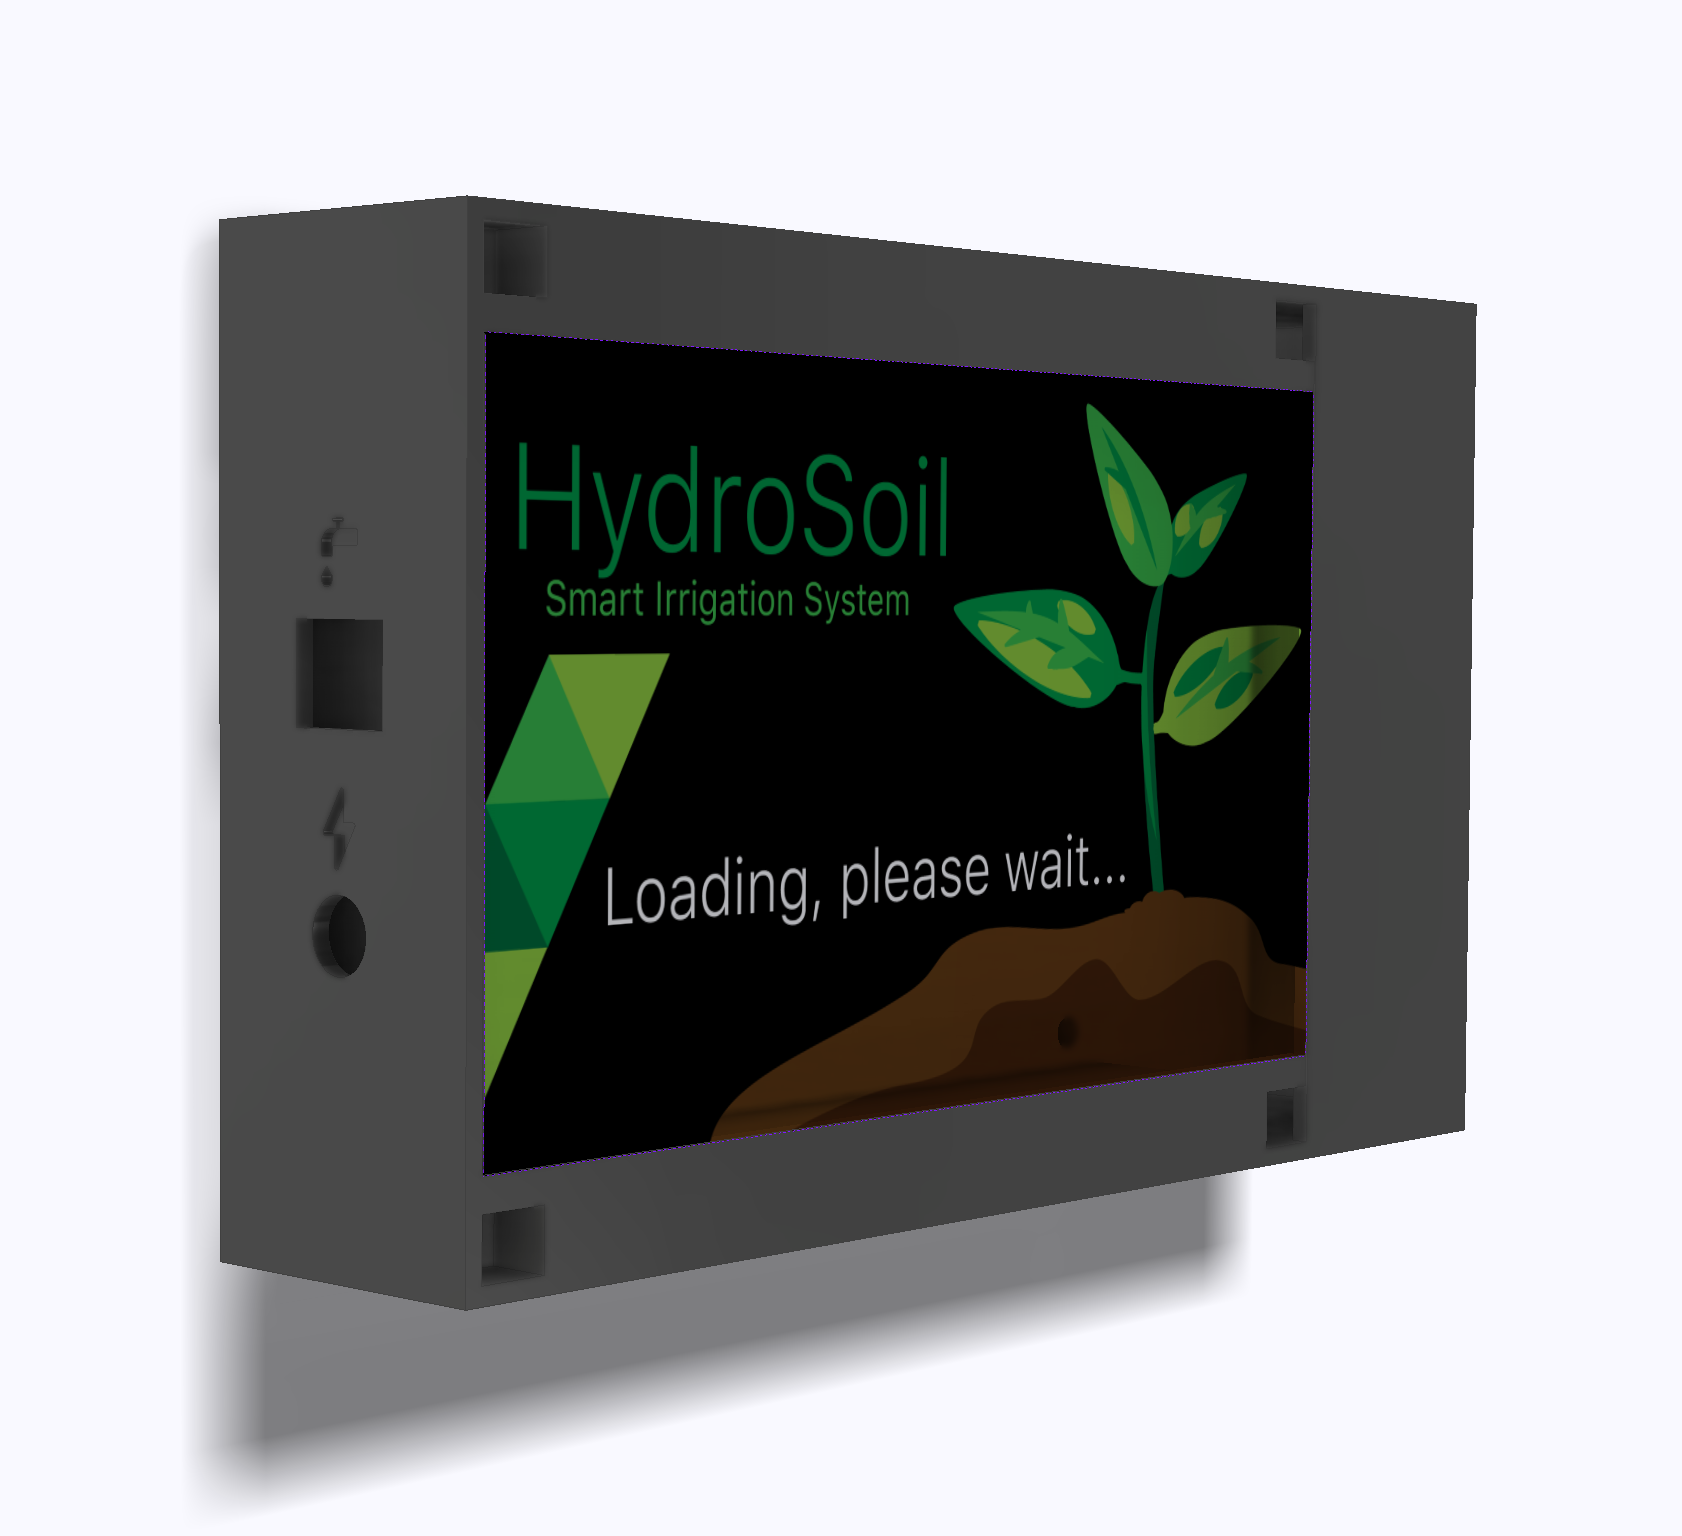
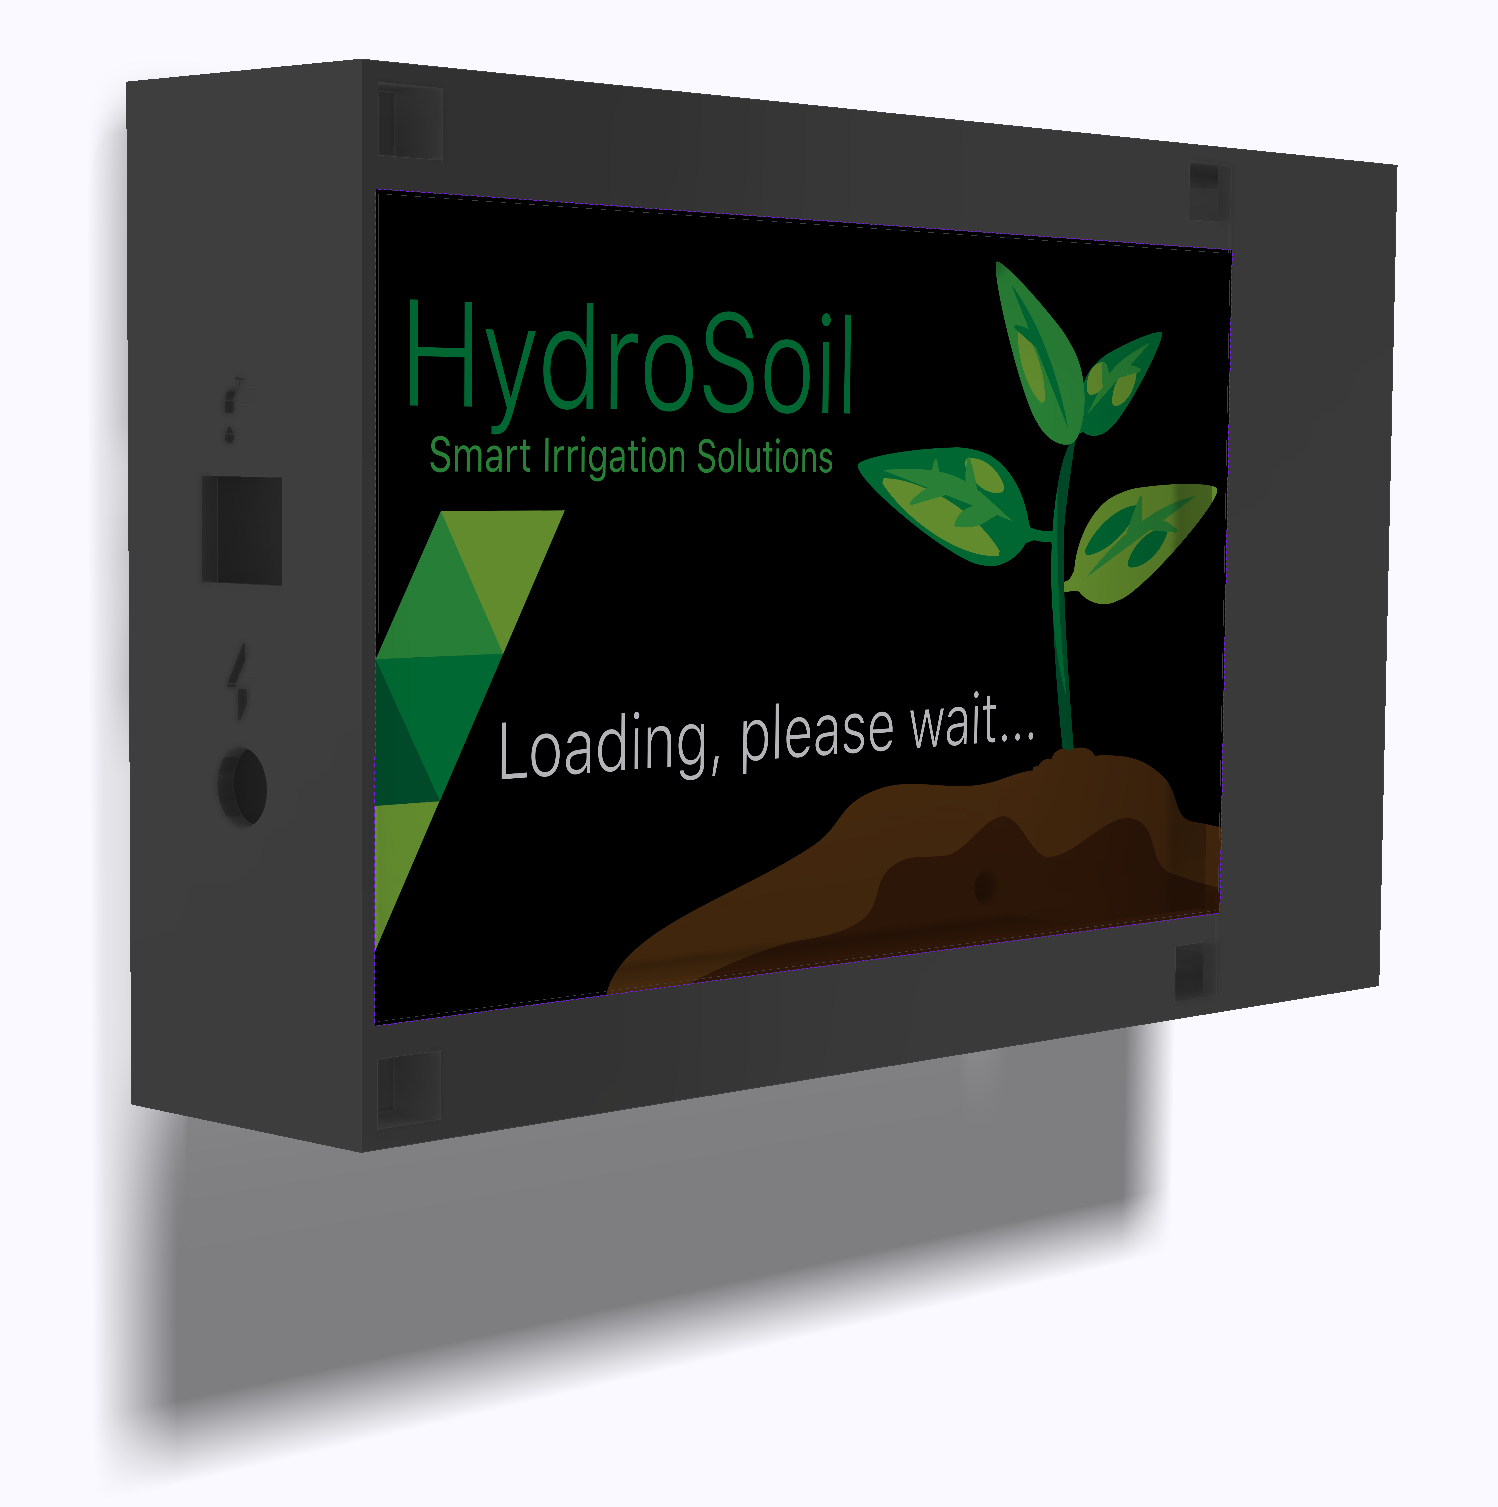
Website Updates
Added new content to website

diff --git a/docs/index.html b/docs/index.html
@@ -40,15 +40,10 @@
 				      <nav id="nav-menu-container">
 				        <ul class="nav-menu">
 				          <li class="menu-active"><a href="#home">Home</a></li>
-				          <li><a href="#about">About</a></li>
-				          <li><a href="#unique">Products</a></li>
-				          <li><a href="#faq">Faq</a></li>
-				          <li class="menu-has-children"><a href="">Pages</a>
-				            <ul>
-				              <li><a href="generic.html">About HydroSoil</a></li>
-				              <li><a href="elements.html">Elements</a></li>
-				            </ul>
-				          </li>
+				          <li><a href="#about">Who we are</a></li>
+						  <li><a href="#faq">Faq</a></li>
+						  <li><a href="generic.html">About</a></li>
+						  <li><a href="elements.html">Products</a></li>
 				        </ul>
 				      </nav><!-- #nav-menu-container -->		    		
 			    	</div>
@@ -56,25 +51,23 @@
 			  </header><!-- #header -->
 
 
-			<!-- start banner Area -->
+			<!-- Start Top Banner Area -->
 			<section class="banner-area" id="home">	
 				<div class="container">
 					<div class="row fullscreen d-flex align-items-center justify-content-center">
 						<div class="banner-content col-lg-12">
-							<h1>
-								HydroSoil 				
-							</h1>
+							<h1>HydroSoil</h1>
 							<br>
 							<h5 class="text-white text-uppercase">Smart Irrigation Solutions</h5>
 							<br>
-							<a href="#" class="primary-btn text-uppercase">Buy Now</a>
+							<a href="#shop" class="primary-btn text-uppercase">Shop Now</a>
 						</div>											
 					</div>
 				</div>
 			</section>
-			<!-- End banner Area -->	
+			<!-- End Top Banner Area -->	
 
-			<!-- Start video-sec Area -->
+			<!-- Start Short Description Area -->
 			<section class="video-sec-area section-gap" id="about">
 				<div class="container">
 					<div class="row justify-content-center align-items-center ">
@@ -92,9 +85,9 @@
 					</div>
 				</div>	
 			</section>
-			<!-- End video-sec Area -->
+			<!-- Start Short Description Area -->
 			
-			<!-- Start top-course Area -->
+			<!-- Start HydroSoil Features Area -->
 			<section class="top-course-area section-gap">
 				<div class="container">
 					<div class="row d-flex justify-content-center">
@@ -111,59 +104,57 @@
 								<span class="lnr lnr-rocket"></span>
 								<a href="#"><h4>High Performance</h4></a>
 								<p>
-									Lorem ipsum dolor sit amet, consectetur adipisic ing elit, seddo eiusmod tempor incid.idunt ut labore et dolore magna aliqua.
+									The state-of-the-art processor in the HydroCore means that controlling irrigation is a fast, simple and efficient process.
 								</p>
 							</div>
 							<div class="single-course">
 								<span class="lnr lnr-cog"></span>
-								<a href="#"><h4>High Performance</h4></a>
+								<a href="#"><h4>Fully Configurable</h4></a>
 								<p>
-									Lorem ipsum dolor sit amet, consectetur adipisic ing elit, seddo eiusmod tempor incid.idunt ut labore et dolore magna aliqua.
+									Every aspect of the HydroCore is able to be personalised to how you need it, from the plant/crop types, irrigation mode and weather location.
 								</p>
 							</div>							
 						</div>
 						<div class="col-lg-6 course-middle">
-							<img class="img-fluid mx-auto d-block" src="img/HydroCore boot.png" alt="">
+							<img class="img-fluid mx-auto d-block" src="img/HydroCore Boot.png" alt="">
 						</div>
 						<div class="col-lg-3 course-right">
 							<div class="single-course">
-								<span class="lnr lnr-apartment"></span>
-								<a href="#"><h4>High Performance</h4></a>
+								<span class="lnr lnr-magic-wand"></span>
+								<a href="#"><h4>Powerful Valves</h4></a>
 								<p>
-									Lorem ipsum dolor sit amet, consectetur adipisic ing elit, seddo eiusmod tempor incid.idunt ut labore et dolore magna aliqua.
+									The powerful & robust valves built in to the HydroCore Valve board are the latest technology and can respond in an instant on command of the HydroCore.
 								</p>
 							</div>
 							<div class="single-course">
-								<span class="lnr lnr-phone"></span>
-								<a href="#"><h4>High Performance</h4></a>
+								<span class="lnr lnr-smartphone"></span>
+								<a href="#"><h4>Connects to phone app</h4></a>
 								<p>
-									Lorem ipsum dolor sit amet, consectetur adipisic ing elit, seddo eiusmod tempor incid.idunt ut labore et dolore magna aliqua.
+									The HydroSoil App allows you to check up on your irrigation system without even getting out of your seat, and even works from wherever you are.
 								</p>
 							</div>														
 						</div>
 					</div>
 				</div>	
 			</section>
-			<!-- End top-course Area -->
+			<!-- End HydroSoil Features Area -->
 			
-			<!-- Start home-about Area -->
+			<!-- Start Phone App Area -->
 			<section class="home-about-area">
 				<div class="container-fluid">				
 					<div class="row justify-content-center align-items-center">
 						<div class="col-lg-6 no-padding home-about-left">
-							<img class="img-fluid" src="img/about-img.jpg" alt="">
+							<img class="img-fluid" src="img/about-img.png" alt="">
 						</div>
 						<div class="col-lg-6 no-padding home-about-right">
-							<h1>Globally Connected <br>
-							by Large Network</h1>
+							<h1>Control from anywhere with the HydroSoil App</h1>
 							<p>
-								<span>We are here to listen from you deliver exellence</span>
+								<span>Available now on the iOS App Store</span>
 							</p>
 							<p>
-								Lorem ipsum dolor sit amet, consectetur adipisicing elit, sed do eiusmod tempor incididunt ut labore et dolore magna aliqua.
-								Ut enim ad minim. Lorem ipsum dolor sit amet, consectetur adipisicing elit, sed do eiusmod tempor.
+								The HydroSoil App can be downloaded on your smartphone and easily linked to the HydroCore, allowing for easy controlling and checking on your irrigation system, with even push notification alerts.
 							</p>
-							<a class="text-uppercase primary-btn" href="#">get details</a>
+							<a class="text-uppercase primary-btn" href="https://apps.apple.com/au/app/tp-link-deco/id1186159417">Download Now</a>
 						</div>
 					</div>
 				</div>	
@@ -189,7 +180,7 @@
 									<h4>
 										HydroGarden Kit
 									</h4>
-									<h6>$399.99</h6>
+									<h6>AUD $399.99</h6>
 									<a class="text-uppercase primary-btn" href="#">Pre Order</a>
 								</div>
 							</div>
@@ -201,7 +192,7 @@
 									<h4>
 										HydroGreenhouse Kit
 									</h4>
-									<h6>$699.99</h6>
+									<h6>AUD $699.99</h6>
 									<a class="text-uppercase primary-btn" href="#">Pre Order</a>
 								</div>
 							</div>
@@ -213,7 +204,7 @@
 									<h4>
 										HydroFarm Kit
 									</h4>
-									<h6>$999.99</h6>
+									<h6>AUD $999.99</h6>
 									<a class="text-uppercase primary-btn" href="#">Pre Order</a>
 								</div>
 							</div>
@@ -225,7 +216,7 @@
 									<h4>
 										Zone Expansion Board
 									</h4>
-									<h6>$149.99</h6>
+									<h6>AUD $149.99</h6>
 									<a class="text-uppercase primary-btn" href="#">Pre Order</a>
 								</div>
 							</div>
